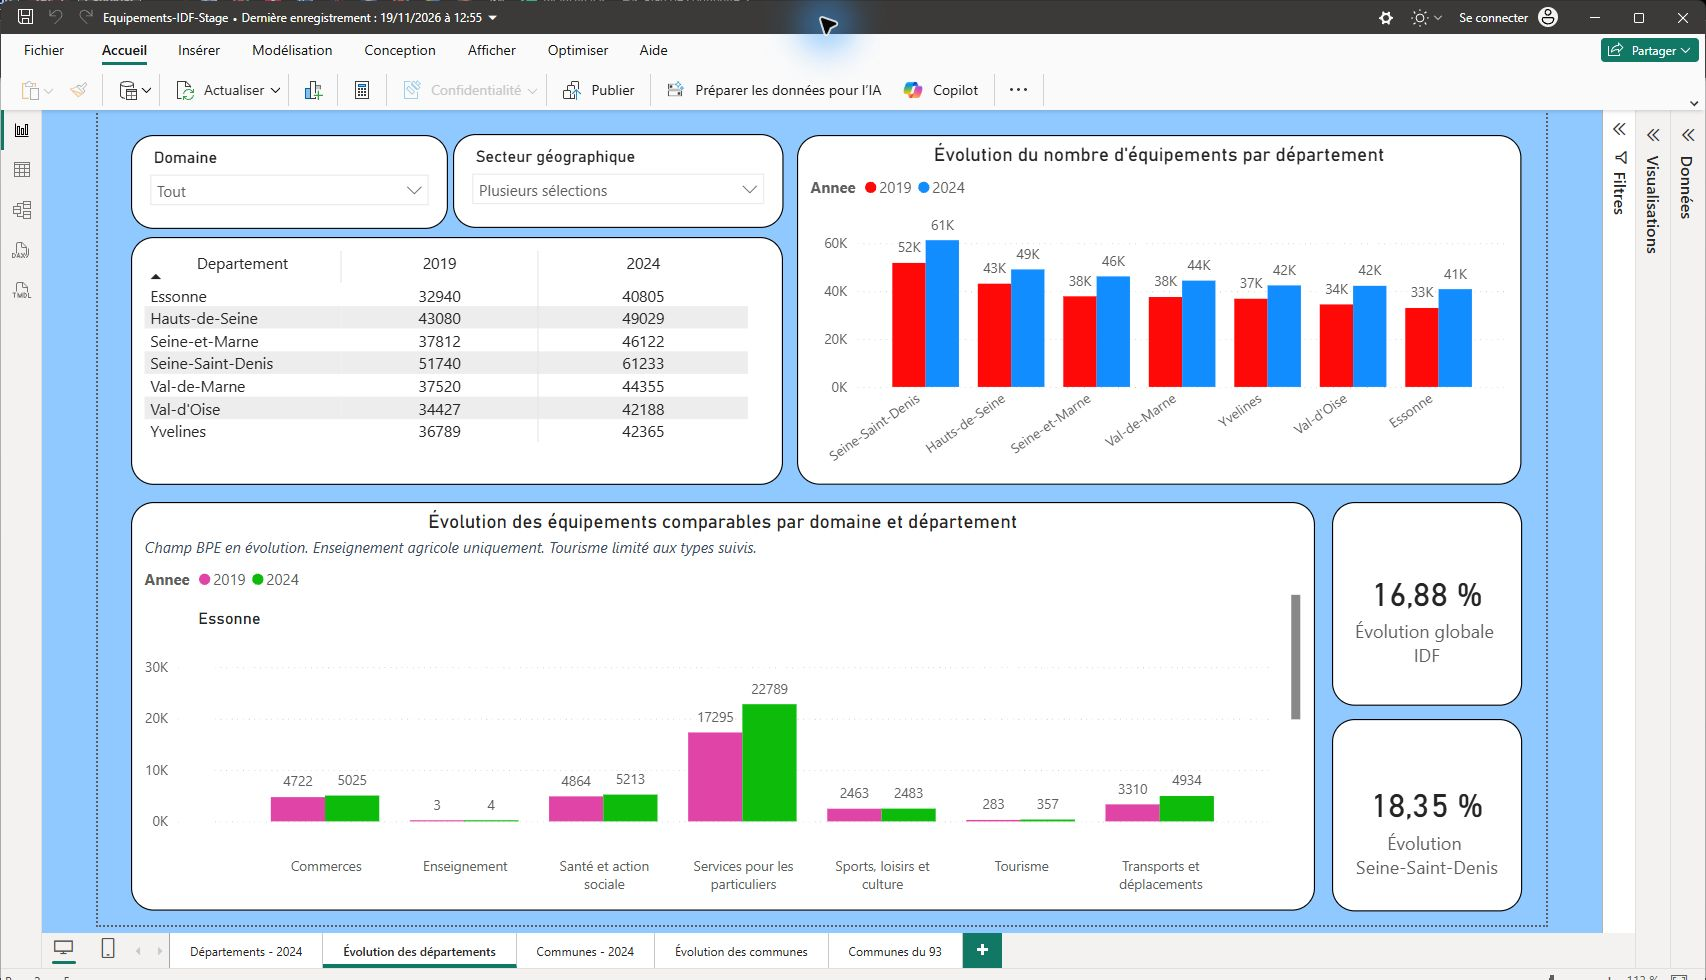
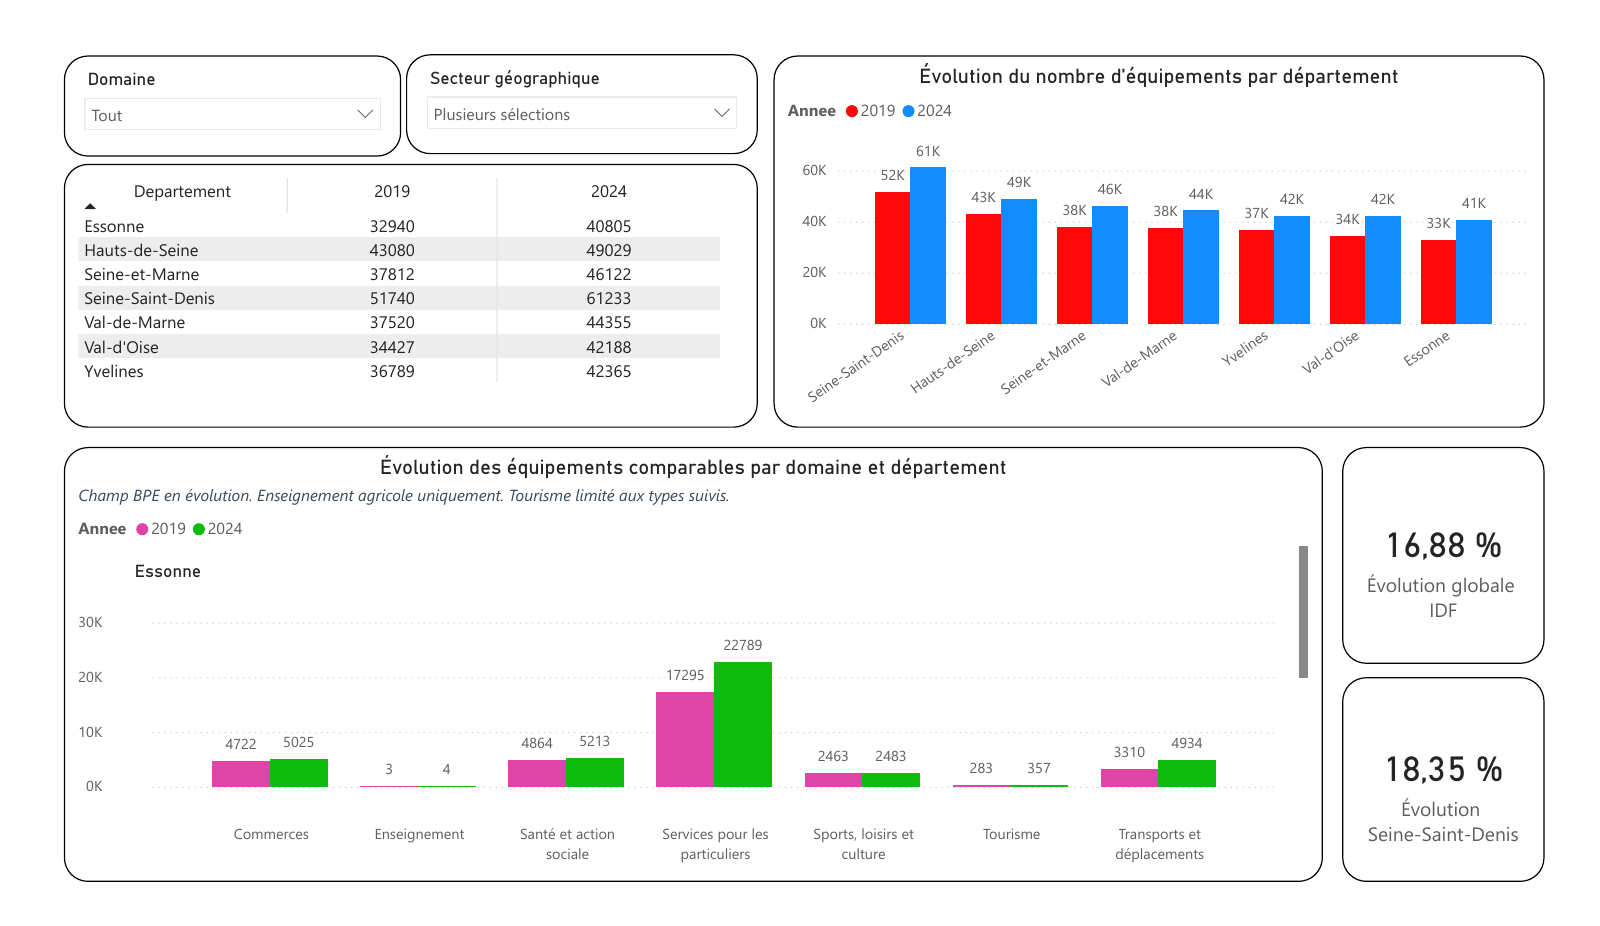
Simplifier le lancement et afficher le rapport sans pointeur

diff --git a/README.md b/README.md
@@ -4,21 +4,21 @@ Pendant mon stage en préfecture, j’ai conçu un rapport pour comparer les éq
 
 ## Aperçu du projet
 
-![Capture de l’onglet Évolution des départements dans Power BI Desktop, avec comparaison de 2019 et 2024.](docs/apercu.png)
+![Aperçu de l’onglet Évolution des départements, exporté directement depuis le rapport, avec comparaison de 2019 et 2024.](docs/apercu.png)
 
-Capture de l’onglet Évolution des départements dans Power BI Desktop, avec comparaison de 2019 et 2024. Le graphique par domaine précise les limites de comparaison pour l’enseignement et le tourisme.
+Aperçu de l’onglet Évolution des départements, exporté directement depuis le rapport, avec comparaison de 2019 et 2024. Le graphique par domaine précise les limites de comparaison pour l’enseignement et le tourisme.
 
 [Voir la capture en grand format](docs/apercu.png) · [Mon parcours et mes autres projets](https://github.com/ArilesD)
 
 ## Télécharger et ouvrir
 
-1. Installe [Power BI Desktop sur Windows](https://powerbi.microsoft.com/desktop/).
+1. Installe [Power BI Desktop](https://powerbi.microsoft.com/desktop/).
 2. [Télécharge le projet en ZIP](https://github.com/ArilesD/rapport-stage-power-bi/archive/refs/heads/main.zip) et fais **Extraire tout**.
 3. Ouvre le dossier extrait puis double-clique sur **OUVRIR.cmd**, ou ouvre directement **Equipements-IDF-Stage.pbix**.
 
 Les données enregistrées dans le rapport permettent d’utiliser les filtres dès l’ouverture. Pour commencer, ouvre **Départements - 2024** et sélectionne un domaine. L’actualisation des sources demande la connexion SQLite/ODBC décrite plus bas.
 
-[Consulter aussi l’extrait de l’onglet Départements 2024](apercu-departements.png). Les aperçus sont accessibles dans un navigateur sur Windows, macOS et Linux.
+[Consulter aussi l’extrait de l’onglet Départements 2024](apercu-departements.png). Les aperçus se consultent directement dans un navigateur.
 
 
 ## Explorer le rapport
